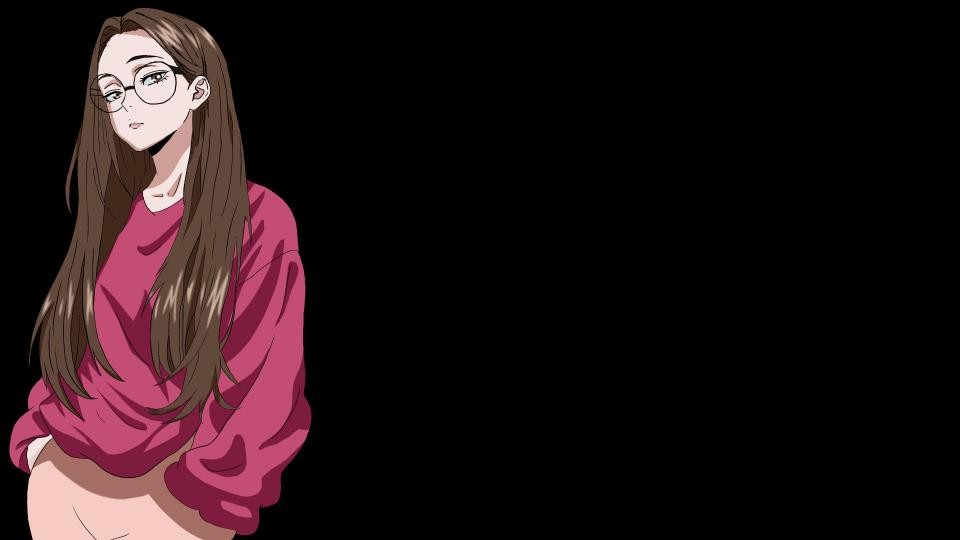
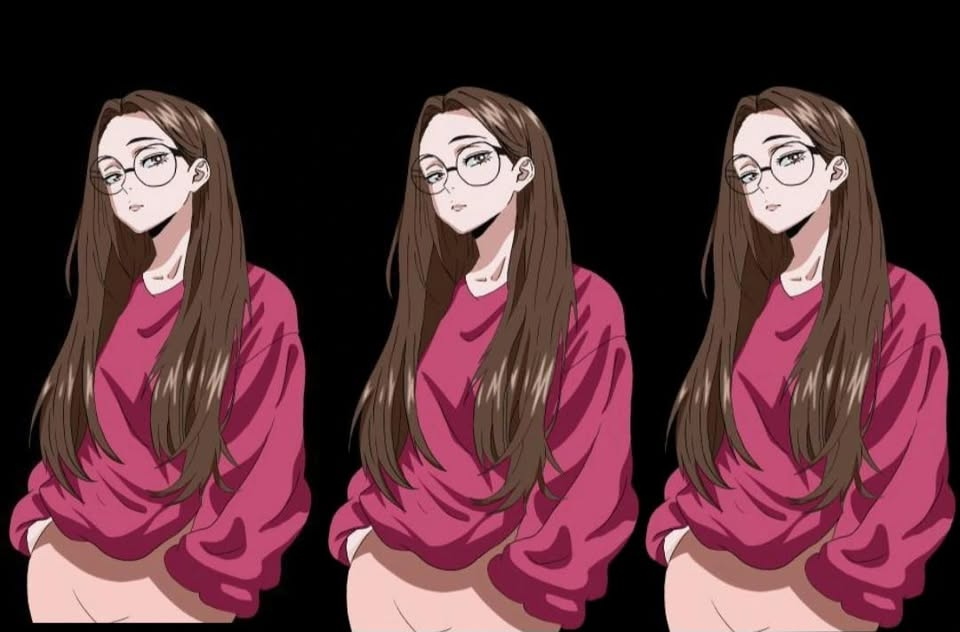
adding contact page et changer le background

diff --git a/portfolio-react/src/pages/Contact.jsx b/portfolio-react/src/pages/Contact.jsx
@@ -1,0 +1,123 @@
+import React, { useState } from 'react';
+import './Contact.scss';
+
+export default function Contact() {
+  // Données du formulaire
+  const [form, setForm] = useState({ name: '', email: '', message: '' });
+
+  // Message de succès
+  const [sent, setSent] = useState(false);
+
+  // Erreurs
+  const [errors, setErrors] = useState({});
+
+  // Met à jour un champ du formulaire
+  const update = (field, value) => {
+    setForm({ ...form, [field]: value });
+  };
+
+  // Validation et envoi
+  const submit = (e) => {
+    e.preventDefault();
+    const newErrors = {};
+
+    if (!form.name.trim()) newErrors.name = 'Champ requis';
+    if (!form.email.includes('@')) newErrors.email = 'Email invalide';
+    if (form.message.length < 10) newErrors.message = 'Message trop court';
+
+    setErrors(newErrors);
+
+    // Si pas d'erreurs → succès
+    if (Object.keys(newErrors).length === 0) {
+      setSent(true);
+      setForm({ name: '', email: '', message: '' });
+    }
+  };
+
+  return (
+    <section className="contact-section">
+      <div className="section-inner">
+
+        <div className="section-header">
+          <div className="section-num">05</div>
+          <div className="section-title-wrap">
+            <div className="section-label">// contact.quête</div>
+            <h2 className="section-title">Me <span>Contacter</span></h2>
+          </div>
+        </div>
+
+        <div className="contact-grid">
+
+          {/* Info à gauche */}
+          <div className="contact-info">
+            <h3>Realisons une quête ensemble </h3>
+            <p>Un projet à me confier? Selectionne ta mission et je rejoins ton équipe pour des collaborations créatives et des aventures digitales.</p>
+            <p><em> Spécialité: l'imagination </em></p> 
+            <div className="contact-links">
+              <a href="https://github.com/andreea0705" target="_blank" rel="noreferrer">
+                github.com/andreea0705
+              </a>
+              <a href="mailto:andreea@example.com">
+                andreea07.05.2001@gmail.com
+              </a>
+            </div>
+          </div>
+
+          {/* Formulaire à droite */}
+          <form className="contact-form" onSubmit={submit}>
+
+            {/* Nom */}
+            <div className="form-group">
+              <label>Nom</label>
+              <input
+                type="text"
+                placeholder="Ton nom.."
+                value={form.name}
+                onChange={e => update('name', e.target.value)}
+                className={errors.name ? 'error' : ''}
+              />
+              {errors.name && <span className="error-msg">{errors.name}</span>}
+            </div>
+
+            {/* Email */}
+            <div className="form-group">
+              <label>Email</label>
+              <input
+                type="email"
+                placeholder="ton@email.com"
+                value={form.email}
+                onChange={e => update('email', e.target.value)}
+                className={errors.email ? 'error' : ''}
+              />
+              {errors.email && <span className="error-msg">{errors.email}</span>}
+            </div>
+
+            {/* Message */}
+            <div className="form-group">
+              <label>Message</label>
+              <textarea
+                placeholder="Ton message..."
+                value={form.message}
+                onChange={e => update('message', e.target.value)}
+                className={errors.message ? 'error' : ''}
+              />
+              {errors.message && <span className="error-msg">{errors.message}</span>}
+            </div>
+
+            {/* Bouton envoyer */}
+            <button type="submit" className="btn-primary">
+              Envoyer →
+            </button>
+
+            {/* Message de confirmation */}
+            {sent && (
+              <p className="success-msg">✓  [ SUCCÈS ] — Mission accomplie ! Je te réponds vite 💗</p>
+            )}
+
+          </form>
+        </div>
+
+      </div>
+    </section>
+  );
+}

diff --git a/portfolio-react/src/pages/Contact.scss b/portfolio-react/src/pages/Contact.scss
@@ -1,0 +1,110 @@
+/* ---- Contact ---- */
+.contact-section {
+  background: linear-gradient(180deg, var(--bg2), var(--bg));
+  min-height: 100vh;
+}
+
+.contact-grid {
+  display: grid;
+  grid-template-columns: 1fr 1.3fr;
+  gap: 4rem;
+  align-items: start;
+}
+
+/* Info à gauche */
+.contact-info {
+  h3 {
+    font-family: var(--font-title);
+    font-size: 1.4rem;
+    color: var(--text);
+    margin-bottom: 1rem;
+  }
+
+  p {
+    color: var(--text-dim);
+    line-height: 1.8;
+    margin-bottom: 2rem;
+  }
+}
+
+.contact-links {
+  display: flex;
+  flex-direction: column;
+  gap: 1rem;
+
+  a {
+    font-family: var(--font-code);
+    font-size: 0.85rem;
+    color: var(--pink-light);
+    text-decoration: none;
+    padding: 1rem 1.2rem;
+    border: 1px solid rgba(255,45,120,0.2);
+    background: var(--bg3);
+    transition: border-color 0.2s, box-shadow 0.2s;
+
+    &:hover {
+      border-color: var(--pink);
+      box-shadow: var(--glow-sm);
+    }
+  }
+}
+
+/* Formulaire */
+.contact-form {
+  display: flex;
+  flex-direction: column;
+  gap: 1.2rem;
+}
+
+.form-group {
+  display: flex;
+  flex-direction: column;
+  gap: 0.4rem;
+
+  label {
+    font-family: var(--font-title);
+    font-size: 0.65rem;
+    letter-spacing: 0.2em;
+    text-transform: uppercase;
+    color: var(--text-dim);
+  }
+
+  input, textarea {
+    background: var(--bg3);
+    border: 1px solid rgba(255,45,120,0.3);
+    color: var(--text);
+    font-family: var(--font-body);
+    font-size: 1rem;
+    padding: 0.9rem 1rem;
+    outline: none;
+    transition: border-color 0.2s, box-shadow 0.2s;
+
+    &:focus {
+      border-color: var(--pink);
+      box-shadow: var(--glow-sm);
+    }
+
+    &.error { border-color: #ff4444; }
+  }
+
+  textarea { height: 140px; resize: none; }
+}
+
+.error-msg {
+  font-family: var(--font-code);
+  font-size: 0.72rem;
+  color: #ff6666;
+}
+
+.success-msg {
+  font-family: var(--font-code);
+  font-size: 0.85rem;
+  color: var(--cyan);
+  padding: 1rem;
+  border: 1px solid var(--cyan);
+  background: rgba(0,245,255,0.08);
+}
+
+@media (max-width: 768px) {
+  .contact-grid { grid-template-columns: 1fr; }
+}

diff --git a/portfolio-react/src/App.jsx b/portfolio-react/src/App.jsx
@@ -7,7 +7,7 @@ import About from './pages/About';
 //import Projects from './pages/Projects';
 //import SkillsPage from './pages/SkillsPage';
 //import Testimonials from './pages/Testimonials';
-//import Contact from './pages/Contact';
+import Contact from './pages/Contact';
 import Footer from './components/Footer';
 
 export default function App() {
@@ -37,7 +37,7 @@ export default function App() {
     //projects: <Projects />,
     //skills: <SkillsPage />,
     //testimonials: <Testimonials />,
-    //contact: <Contact onNavigate={goTo} />,
+    contact: <Contact onNavigate={goTo} />,
   };
 
   return (

diff --git a/portfolio-react/src/pages/Home.scss b/portfolio-react/src/pages/Home.scss
@@ -115,7 +115,7 @@
 /* ---- Slider de dessins ---- */
 .home-slider {
   flex-shrink: 0;
-  width: clamp(260px, 35vw, 420px);
+  width: clamp(500px, 35vw, 420px);
   display: flex;
   flex-direction: column;
   align-items: center;
